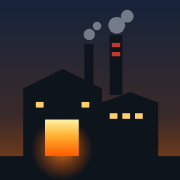
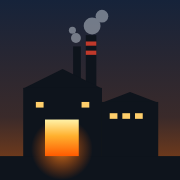
Pipene står på smeltehallen i app-ikonet og tittelbildet (B-250)
Claude-Session: https://claude.ai/code/session_014RUzUPdouBB894HCv9rDhM

Changed region(s): [[0.3611, 0.0556, 0.75, 0.5278], [0.3889, 0.2778, 0.4722, 0.4444]]

diff --git a/frontend/src/ui/TitleArt.tsx b/frontend/src/ui/TitleArt.tsx
@@ -39,14 +39,15 @@ export function TitleArt() {
       <path d="M0 118 Q 90 84 190 108 T 360 100 T 480 110 L480 150 L0 150 Z" fill="#241c22" />
       {/* Røyk fra pipene */}
       <g className="title-smoke" fill="#c9d1da">
-        <circle className="puff puff-1" cx={276} cy={34} r={7} />
-        <circle className="puff puff-2" cx={276} cy={34} r={9} />
-        <circle className="puff puff-3" cx={238} cy={48} r={6} />
+        <circle className="puff puff-1" cx={234} cy={26} r={7} />
+        <circle className="puff puff-2" cx={234} cy={26} r={9} />
+        <circle className="puff puff-3" cx={213} cy={40} r={6} />
       </g>
       {/* Verket i silhuett */}
       <g fill="#0e141c">
-        <rect x={266} y={38} width={20} height={80} />
-        <rect x={232} y={52} width={13} height={66} />
+        {/* Begge pipene står på smeltehallens tak og går ned i hallen (B-250) */}
+        <rect x={226} y={30} width={16} height={66} />
+        <rect x={208} y={44} width={10} height={52} />
         <path d="M150 92 L200 66 L250 92 Z" />
         <rect x={150} y={91} width={100} height={59} />
         <path d="M250 108 L292 94 L334 108 Z" />
@@ -59,8 +60,8 @@ export function TitleArt() {
         <rect x={36} y={102} width={63} height={4} />
         <rect x={0} y={140} width={480} height={10} />
       </g>
-      <rect x={270} y={48} width={12} height={5} fill="#c0392b" />
-      <rect x={270} y={60} width={12} height={5} fill="#c0392b" />
+      <rect x={226} y={38} width={16} height={5} fill="#c0392b" />
+      <rect x={226} y={50} width={16} height={5} fill="#c0392b" />
       {/* Porten til ovnshallen gløder */}
       <circle className="title-glow" cx={186} cy={134} r={40} fill="url(#title-glow)" />
       <rect x={172} y={112} width={30} height={28} fill="url(#title-melt)" />

diff --git a/frontend/src/game/changelog.ts b/frontend/src/game/changelog.ts
@@ -15,6 +15,12 @@ export interface ChangelogEntry {
 
 export const CHANGELOG: ChangelogEntry[] = [
   {
+    b: 250,
+    date: "2026-09-28",
+    title: "Pipene på plass",
+    items: ["Pipene i app-ikonet og tittelbildet står nå på taket av smeltehallen."],
+  },
+  {
     b: 249,
     date: "2026-09-28",
     title: "Nytt ikon og tittelbilde",

diff --git a/docs/BESLUTNINGER.md b/docs/BESLUTNINGER.md
@@ -4540,3 +4540,11 @@ Brukeren: «Fortsett». Fikk fire forslag (øse som heller, lysbueovn, S av glø
 - Ikonet på hjemskjermen til en iPhone byttes først når spillet legges til på nytt.
 - Konto: nei. Testet: startskjermen på de 7 størrelsene (ingen horisontal scrolling, kortet får plass), ikonene i
   16–512 px.
+
+## B-250 Pipene står på smeltehallen i app-ikonet og tittelbildet (2026-09-28)
+Status: gjelder (retter B-249, samme regel som B-246 i anleggsbildet)
+Brukeren: «Fiks pipeplasseringa i appikonet og tittelbildet.»
+- I ikonet sto den store pipa i lufta over støpehallen (bunnen sluttet over taket), og i tittelbildet sto den på
+  støpehallen. Nå står begge pipene på høyre takflate på smeltehallen og går ned i hallen, som i anleggsbildet (B-246).
+- PNG-ene er laget på nytt fra `public/icon.svg`.
+- Konto: nei.

diff --git a/docs/LOGG.md b/docs/LOGG.md
@@ -5,6 +5,18 @@ ble testet, og hva som gjenstår.
 
 ---
 
+## Økt 187 – 2026-09-28: Pipene i ikonet og tittelbildet
+
+**Brukeren ba om:** å fikse plasseringen av pipene i app-ikonet og tittelbildet.
+
+**Gjort:** B-250. Begge pipene står på smeltehallens tak i ikonet og tittelbildet; PNG-ene laget på nytt.
+
+**Testet:** tsc, `npm test`; ikonet og tittelbildet sett på, startskjermen på 320–2 560 px.
+
+**Gjenstår:** veksten på toppen i sluttspillet; tom tonn-liste denne uka (B-235); reserven og kassegrensen; fase 2.
+
+---
+
 ## Økt 186 – 2026-09-28: Logo, app-ikon og tittelbilde
 
 **Brukeren ba om:** «Fortsett» (siste punkt i UI-planen). Valgte «verket i kveldslys» blant fire forslag.
